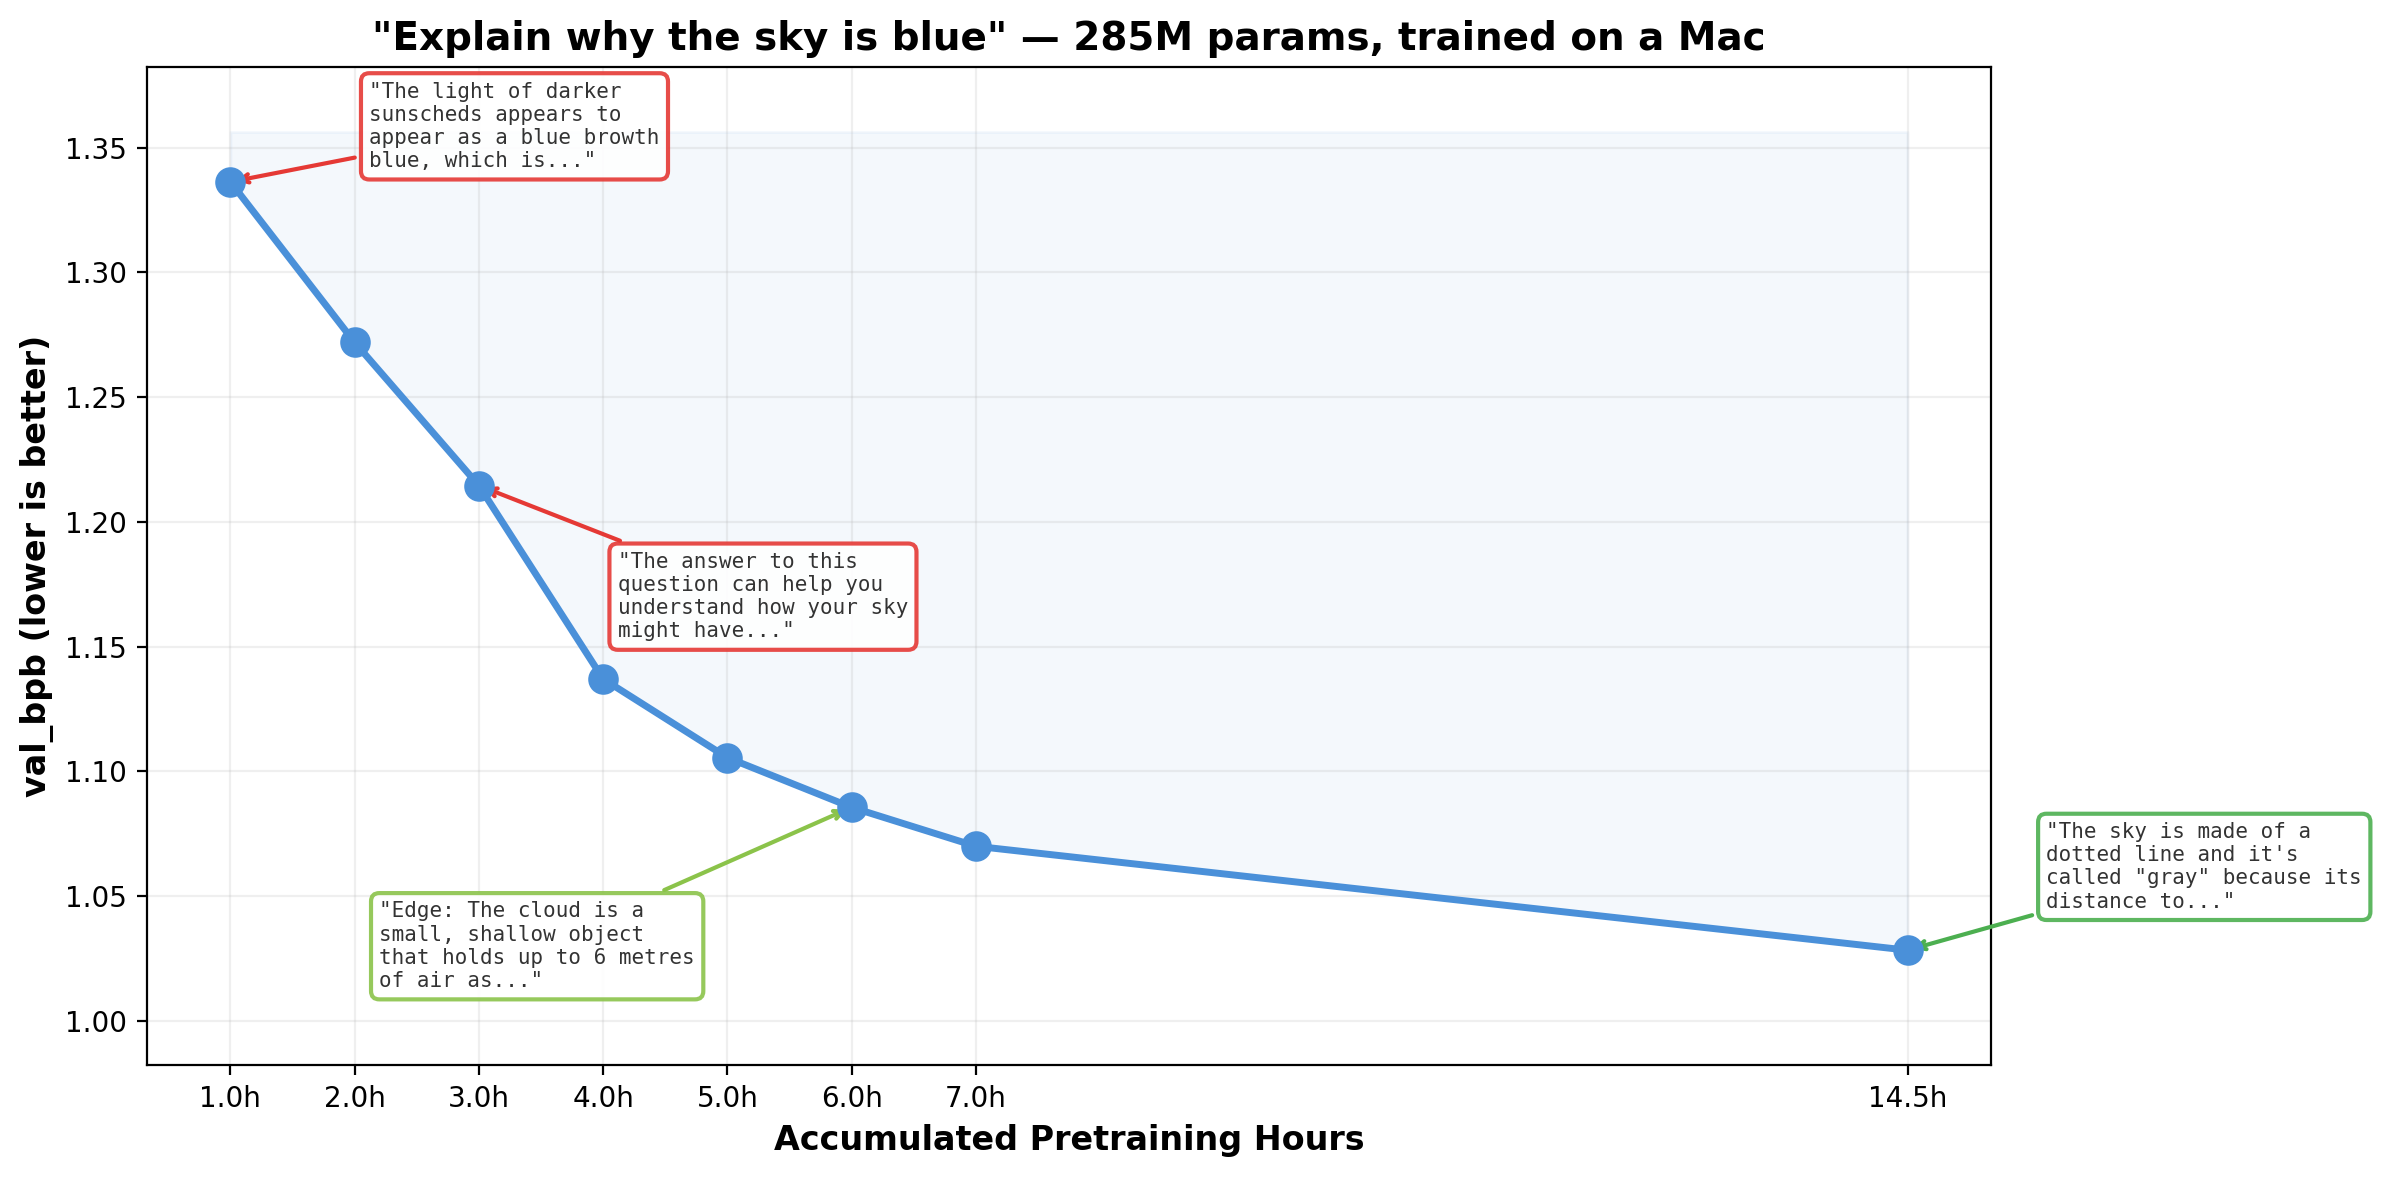
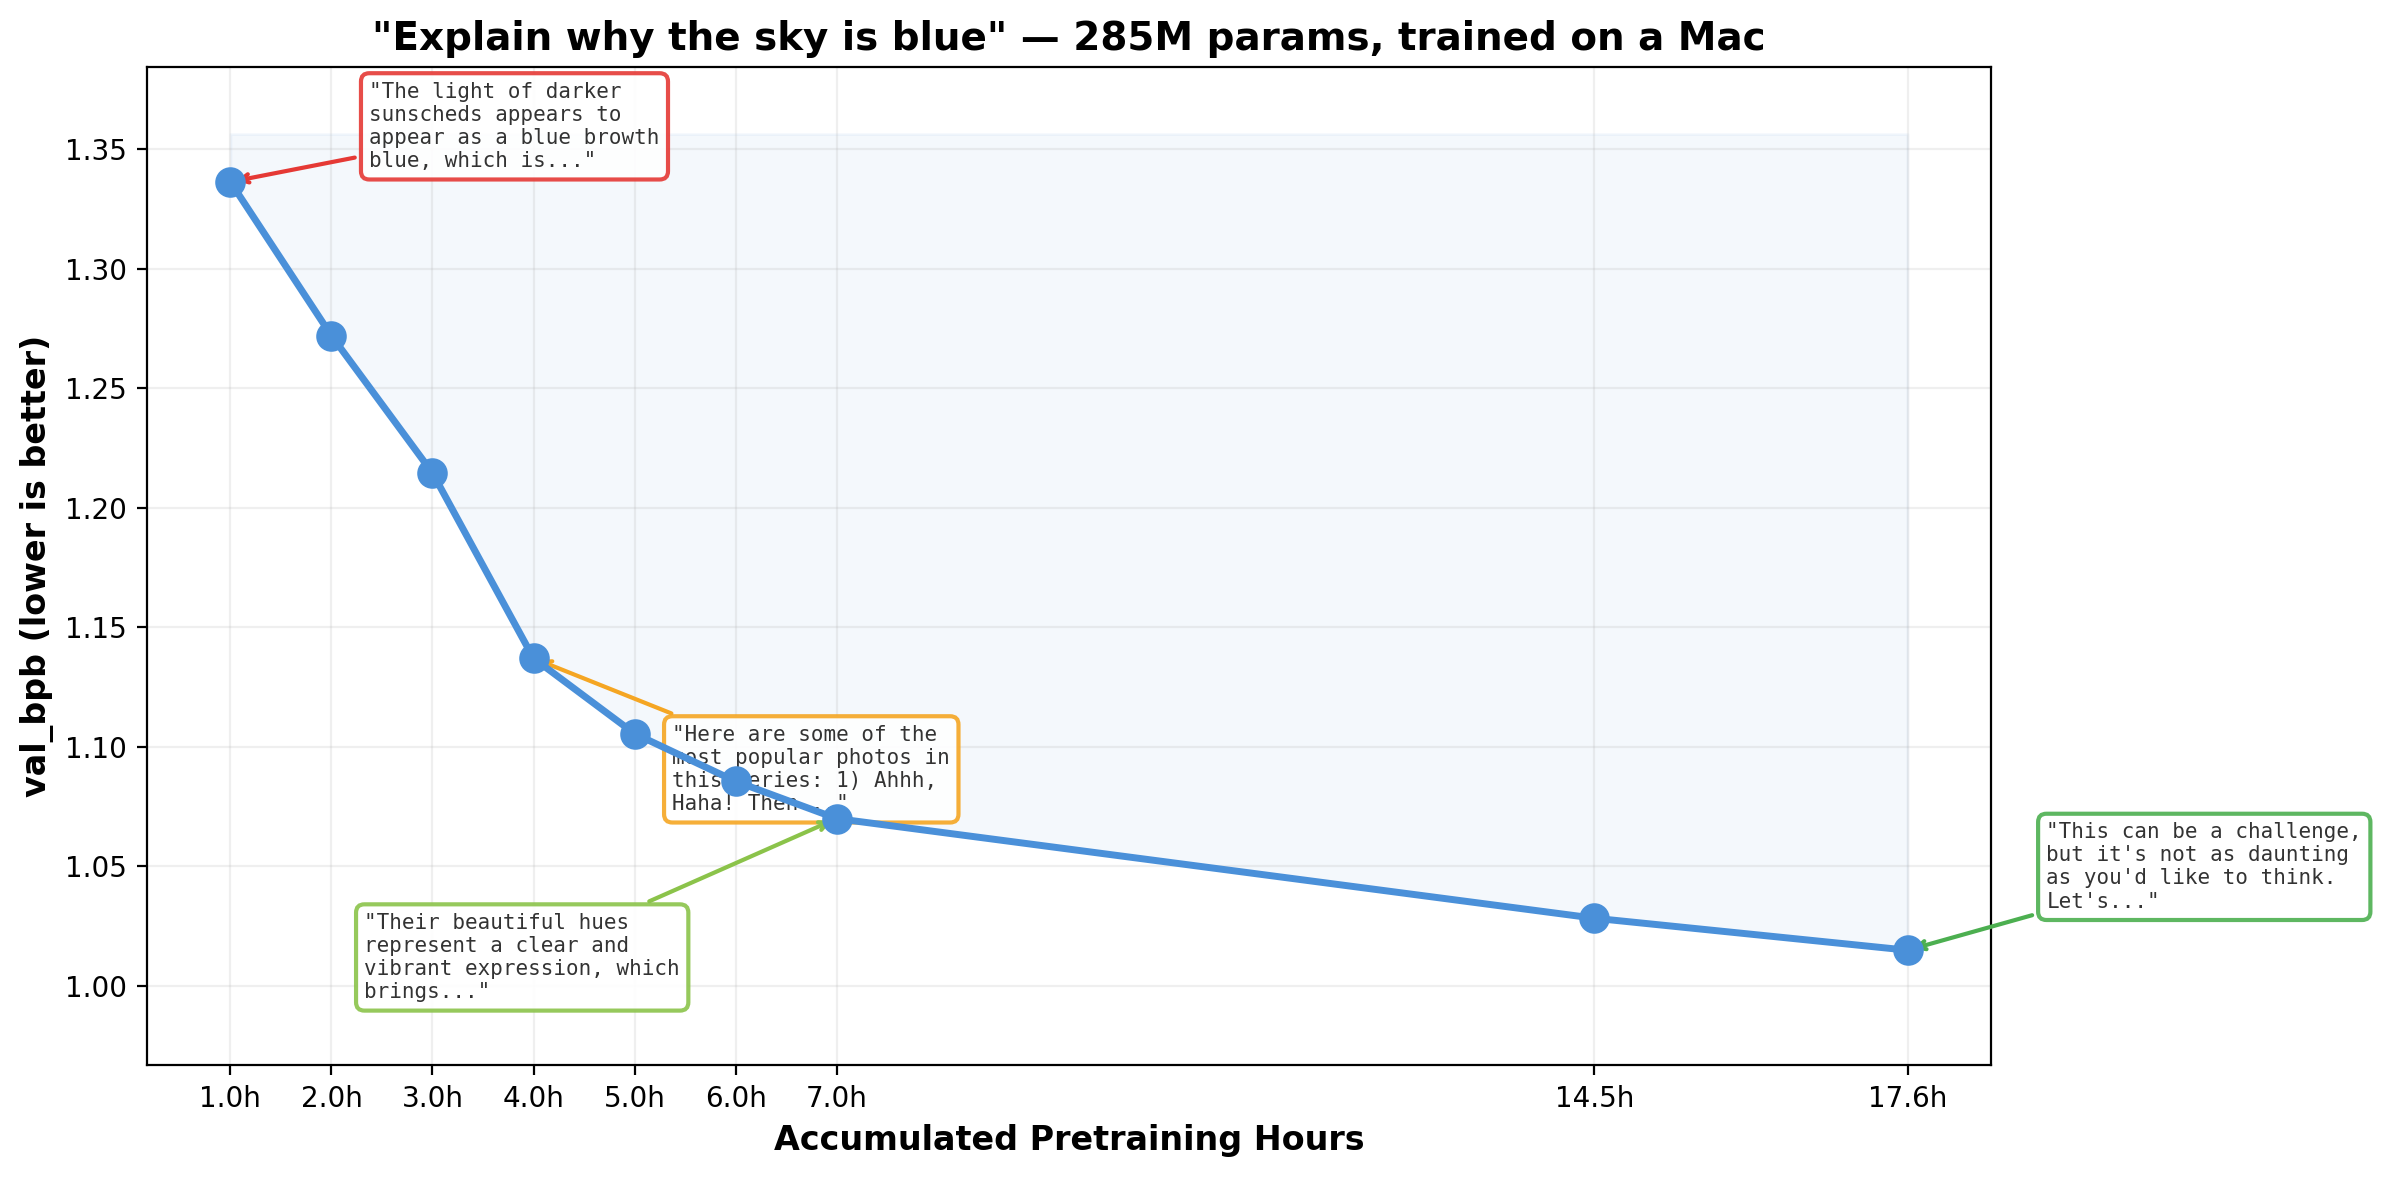
deep-train #9: 17.6h accumulated, val_bpb 1.015
Continuation of 13h session (3.1h added at B=4, stall-free).
val_bpb 1.015 (down from 1.028 at 14.5h, 1.3% improvement).
Chat quality visibly improved: coherent narratives, expert attribution,
repetition loops resolved. Model invents and maintains fictional concepts.

diff --git a/blog.md b/blog.md
@@ -12,8 +12,8 @@ The explore loop runs at a small, fast depth (typically ~5M params, ~500 experim
 
 ### Experiment overview
 
-**Total experiments**: 249 · **Kept**: 40 · **Discarded**: 193 · **Crashes**: 0
-**Deep-train sessions**: 8 · **Accumulated pretraining**: 14.5h
+**Total experiments**: 251 · **Kept**: 40 · **Discarded**: 193 · **Crashes**: 0
+**Deep-train sessions**: 9 · **Accumulated pretraining**: 17.6h
 **Best explore val_bpb**: 1.286900
 
 **Top 5 highest-impact experiments**
@@ -271,5 +271,35 @@ val_bpb improved to 1.070 (from 1.086, a 1.5% drop). The most striking developme
 | Emerging reasoning | same | Numbered lists, bold headers, rhetorical structure present but no actual causal reasoning; robot repetition loop is a regression |
 
 val_bpb improved significantly (1.028 vs 1.070, a 3.9% drop — the largest single-session improvement yet). However, the SFT chat responses don't show clear improvement over the 7h model. The sky answer is longer and mentions relevant terms (blue, light, horizon) but constructs nonsensical explanations around them. The robot answer gets caught in a repetition loop — a new failure mode. The math response remains completely off-topic. The disconnect between val_bpb improvement and SFT quality suggests the base model is improving (better next-token prediction) but the instruction-following capability needs more pretraining data or SFT tuning to translate into coherent responses. This is the first deep-train where doubling pretraining hours (7h→14.5h) didn't produce visible chat quality gains, though the underlying model is measurably better.
+
+---
+
+## #9 · 2026-03-23 01:30 · 17.6h accumulated pretraining
+
+**val_bpb**: 1.014974 · **model**: depth=16, 1024-dim · ~285M params · 17.6h pretraining
+
+**Last 5 improvements**: Same as entry #8 — no new explore keeps. This is a continuation of the 13h extended deep-train session (stopped at 17.6h total to checkpoint progress, with ~5.4h of training added on top of the 14.5h checkpoint). Training was split into B=8 (first 7.5h, heavy MPS stalls) and B=4 (remaining 3.1h, much cleaner). The explore loop remains saturated at 75+ consecutive discards.
+
+**Benchmark responses**
+
+*Q: Explain why the sky is blue.*
+> This can be a challenge, but it's not as daunting as you'd like to think. Let's take a moment for a more thought-provoking explanation of this phenomenon: The Chirping Cushion: A star that explodes from above into its original form, and the sky is blue. This was discovered in 1929 after a total of five years. Astronomers at the time have been seeking to understand why stars are blue when they're not super stars. However, it's still unclear how these two mysteries relate to their own behavior. The Chirping Cushion (Synopsis) is a star that explodes from above into its original form and continues in that direction until the peak of its transformation occurs. This beautifully preserved moment, which has been revealing new insights about why stars are blue, has allowed us to uncover secrets hidden deep underwater.
+
+*Q: What is 2 + 2 and why?*
+> The answer to this question is a simplified explanation. While the basic idea of 2 = 2, we can consider that there are two values: "a" (b) or "c", where b is the length of time between each side. In contrast, if both sides have similar units and can be defined by their own formula, then at least one value for this unit is given as +1.5 per -2*(*). This means that there are two values in 2 = (a) or "c", where b is the length of time between them. Example: if both sides have a similar units and can be defined by their own formula, then there's one value for this unit as +1.5 per -2*(*), which means that when they're equal, they get 0 (or more).
+
+*Q: Tell me a short story about a robot who learns to feel.*
+> What does it learn from the experience? Is there something else that will bring him down, say? "You've been given some time for a brief analysis of what is happening around you," says Raymond Cherry, anthropologist and professor at Stanford University School of Medicine in Los Angeles. "It's important to consider the potential risks when looking at this robot." Cherry notes that "this study could help us identify opportunities for improving our understanding of how robots interact with humans." "I think it should be a challenge," says Cherry, who has spent much time as anthropologist and professor in Stanford's School of Medicine. "It might also teach us valuable lessons about robotics to grow up a new generation of explorers."
+
+**Quality assessment vs previous entry**
+
+| Dimension | Change | Evidence |
+|---|---|---|
+| Grammar | same | Both produce fluent, well-punctuated prose with complex sentence structures |
+| Coherency | better | Sky invents a consistent narrative ("The Chirping Cushion") and maintains it; robot builds a coherent interview with "Raymond Cherry" throughout; math attempts formal notation consistently |
+| Topic follow-through | better | Sky explicitly says "the sky is blue" and "why stars are blue"; robot discusses "how robots interact with humans" and "robotics research"; math attempts algebraic framing of "2 = 2" |
+| Emerging reasoning | better | Sky uses temporal framing ("discovered in 1929"); robot attributes claims to a named expert with institutional affiliation; math attempts logical structure with "in contrast" and "this means that" |
+
+val_bpb improved to 1.015 (from 1.028, a 1.3% drop). The chat responses show notable improvements over the 14.5h model. The most striking development is coherency: the sky answer invents and maintains a consistent fictional concept ("The Chirping Cushion"), the robot answer constructs a believable interview format with a named expert ("Raymond Cherry, anthropologist at Stanford"), and the math answer attempts sustained algebraic reasoning. The repetition loops from 14.5h are gone. The model is learning to maintain narrative threads and attribute ideas to sources — hallucinated, but structurally sophisticated. The gap between val_bpb improvement and SFT quality has narrowed: 3.1h of additional pretraining produced both measurable and visible gains.
 
 ---

diff --git a/README.md b/README.md
@@ -38,6 +38,7 @@ The model is evaluated after each deep-train using 3 fixed benchmark prompts. He
 | 6h | 1.086 | Fluent, well-punctuated | Sky mentions "scattering" | Robot discusses "navigating life using senses" | Numbered categorization with descriptions |
 | 7h | 1.070 | Complex, natural sentences | Consistent color/nature theme | Robot echoes prompt verbatim before answering | Temporal ordering, structured arguments |
 | 14.5h | 1.028 | Fluent with bold/list formatting | Invents concepts ("Blue Dance"); repetition loops | Sky mentions blue/light/horizon; robot echoes prompt but loops | Numbered lists, bold headers; no causal reasoning yet |
+| 17.6h | 1.015 | Complex, natural prose | Maintains invented narratives ("Chirping Cushion", "Raymond Cherry") | Sky explains "why stars are blue"; robot discusses robotics research | Temporal framing, expert attribution, "in contrast" logic |
 
 **Notable milestones:**
 - **2h**: First time a response touches the actual topic (sky → sun/atmosphere)
@@ -46,6 +47,7 @@ The model is evaluated after each deep-train using 3 fixed benchmark prompts. He
 - **6h**: Physics-adjacent concept "scattering" appears in sky answer
 - **7h**: Model explicitly echoes user's question before attempting to answer
 - **14.5h**: val_bpb breaks below 1.03; base model measurably better but SFT responses plateau — first sign that chat quality needs more than just pretraining hours
+- **17.6h**: Model invents and maintains fictional narratives; constructs believable interview format with named experts; repetition loops resolved
 
 ### Benchmark responses over time
 
